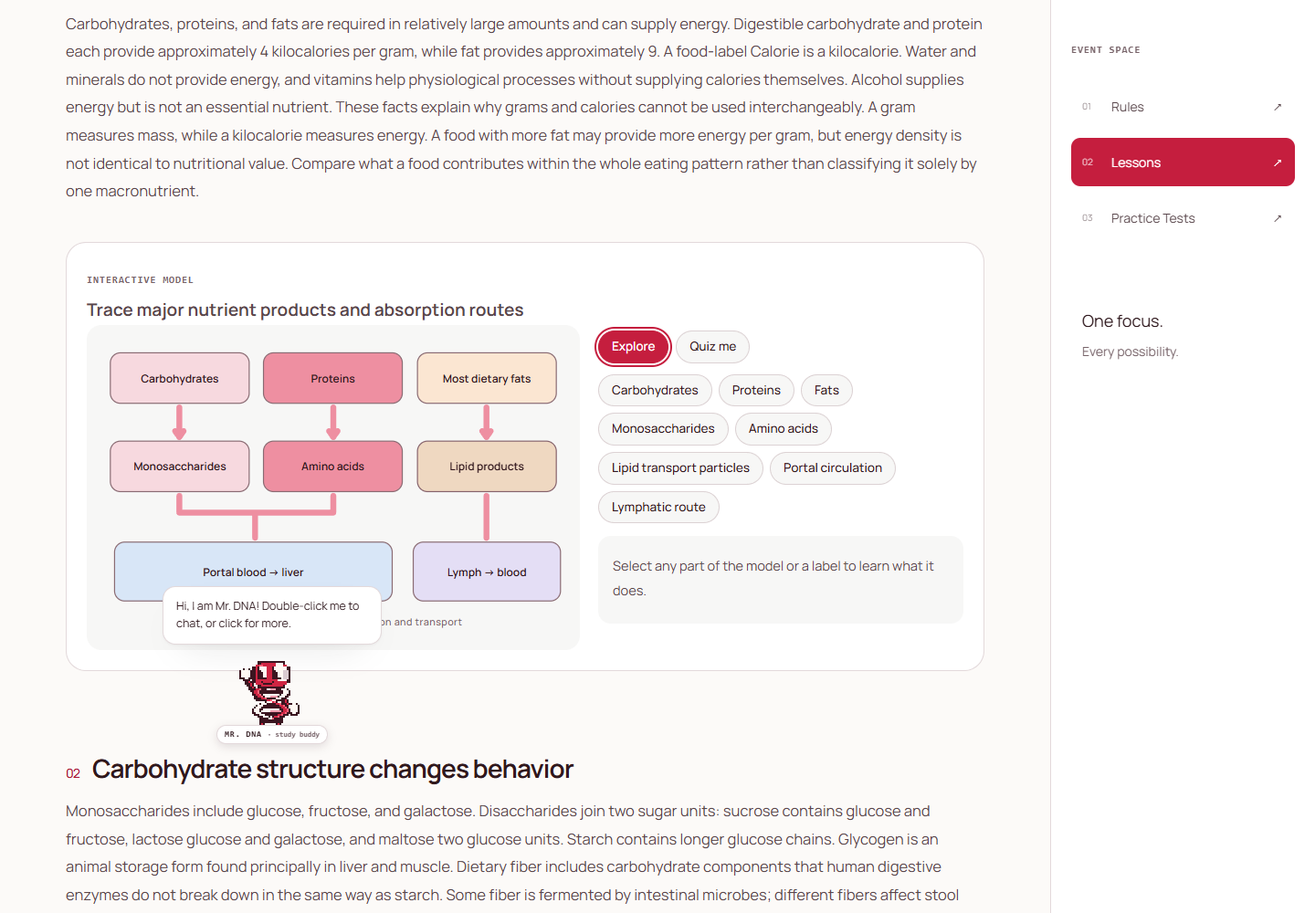
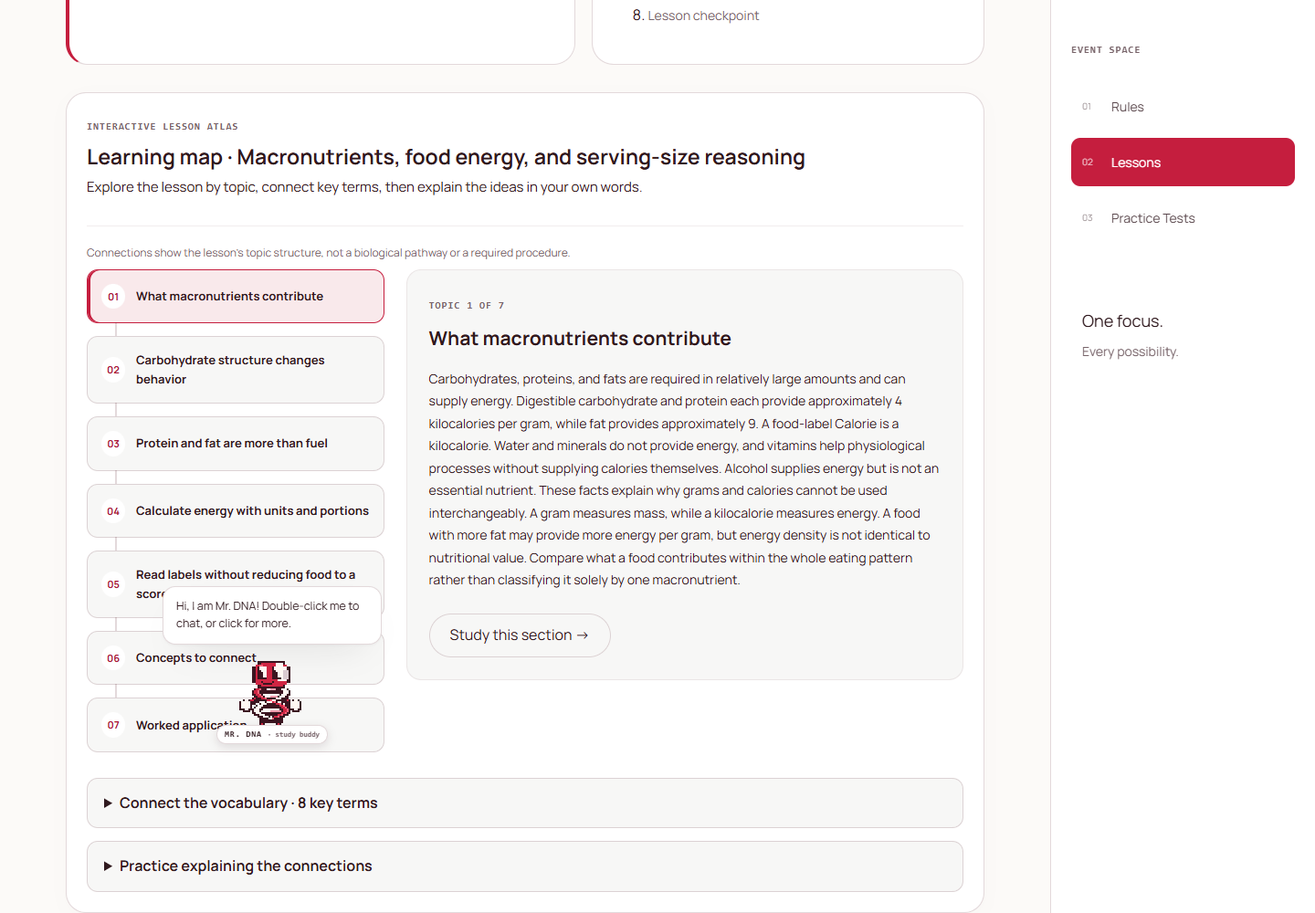
Improved models and diagrams

diff --git a/dist/visual-studio.js b/dist/visual-studio.js
@@ -1,0 +1,85 @@
+// Shared tools for the existing teaching models. No clinical calculations are changed.
+const escape = value => String(value ?? '').replace(/[&<>"']/g, c => ({'&':'&amp;','<':'&lt;','>':'&gt;','"':'&quot;',"'":'&#39;'}[c]));
+const formatted = value => escape(value).replace(/\*\*(.+?)\*\*/g,'<strong>$1</strong>').replace(/\*(.+?)\*/g,'<em>$1</em>');
+
+export function conceptMap(lesson) {
+  const sections = lesson.sections || [];
+  return {kind:'conceptmap', title:`Learning map · ${lesson.title}`, prompt:'Explore the lesson by topic, connect key terms, then explain the ideas in your own words.',
+    nodes:sections.map((section, index) => ({title:section.title, index,
+      details:section.blocks.flatMap(b => typeof b === 'string' ? [b] : b.t === 'callout' ? [b.text] : b.t === 'list' ? b.items : []).filter(Boolean).slice(0, 4)})),
+    terms:lesson.terms || [], objectives:lesson.objectives || []};
+}
+
+export const CONCEPT_MAP = {
+  label:'Interactive lesson atlas',
+  render(w) {
+    return `<div class="atlas"><p class="lw-help">Connections show the lesson’s topic structure, not a biological pathway or a required procedure.</p><div class="atlas-layout"><nav class="atlas-nodes" aria-label="Lesson topics">${w.nodes.map((n,i)=>`<button type="button" data-atlas-node="${i}" aria-pressed="${i===0}"><span>${String(i+1).padStart(2,'0')}</span><strong>${escape(n.title)}</strong></button>`).join('')}</nav><div class="atlas-detail" aria-live="polite"></div></div><details class="atlas-terms"><summary>Connect the vocabulary · ${w.terms.length} key terms</summary><dl>${w.terms.map(([term,definition])=>`<div><dt>${escape(term)}</dt><dd>${escape(definition)}</dd></div>`).join('')}</dl></details><details><summary>Practice explaining the connections</summary><ul>${w.objectives.map(o=>`<li>${escape(o)}</li>`).join('')}</ul><p>Choose two topics above. Explain how one helps you understand the other, using a key term and an example from the lesson.</p></details></div>`;
+  },
+  mount(node,w) {
+    const detail=node.querySelector('.atlas-detail');
+    const show=i=>{
+      const n=w.nodes[i]; if(!n)return;
+      node.querySelectorAll('[data-atlas-node]').forEach(b=>b.setAttribute('aria-pressed',String(Number(b.dataset.atlasNode)===i)));
+      detail.innerHTML=`<span class="eyebrow">Topic ${i+1} of ${w.nodes.length}</span><h5>${escape(n.title)}</h5>${n.details.map(p=>`<p>${formatted(p)}</p>`).join('') || '<p>Open this section to work through its activities and examples.</p>'}<button type="button" class="button secondary" data-atlas-open="${n.index}">Study this section →</button>`;
+      if(!matchMedia('(prefers-reduced-motion: reduce)').matches) detail.animate([{opacity:.35,transform:'translateY(6px)'},{opacity:1,transform:'translateY(0)'}],{duration:220});
+    };
+    node.addEventListener('click',event=>{
+      const choice=event.target.closest('[data-atlas-node]');if(choice)show(Number(choice.dataset.atlasNode));
+      const jump=event.target.closest('[data-atlas-open]');if(jump){const section=node.closest('.course-lesson,main')?.querySelector(`[data-section="${jump.dataset.atlasOpen}"]`);if(section){section.scrollIntoView({behavior:matchMedia('(prefers-reduced-motion: reduce)').matches?'auto':'smooth',block:'start'});section.tabIndex=-1;section.focus({preventScroll:true});}}
+    });
+    show(0);
+  }
+};
+
+export function mountVisualStudio(node,w) {
+  // Inline SVG definitions must be unique when several diagrams share a lesson.
+  const ids=new Map();
+  node.querySelectorAll('svg [id]').forEach(el=>{const old=el.id;const next=`${node.dataset.wid}-${old}`;ids.set(old,next);el.id=next;});
+  node.querySelectorAll('svg *').forEach(el=>{for(const attribute of [...el.attributes]){let value=attribute.value;for(const [old,next] of ids){value=value.replaceAll(`url(#${old})`,`url(#${next})`);if((attribute.name==='href'||attribute.name==='xlink:href')&&value===`#${old}`)value=`#${next}`;}if(value!==attribute.value)el.setAttribute(attribute.name,value);}});
+
+  node.querySelectorAll('.lw-figure').forEach(figure=>{
+    const svg=figure.querySelector('svg');if(!svg)return;
+    const viewport=document.createElement('div');viewport.className='visual-viewport';viewport.tabIndex=0;viewport.setAttribute('role','region');viewport.setAttribute('aria-label','Model viewport; scroll to inspect when zoomed');svg.before(viewport);viewport.append(svg);
+    const toolbar=document.createElement('div');toolbar.className='visual-tools';toolbar.innerHTML='<span>Inspect model</span><button type="button" class="chip" data-zoom-out aria-label="Zoom out">−</button><output aria-live="polite">100%</output><button type="button" class="chip" data-zoom-in aria-label="Zoom in">+</button><button type="button" class="chip" data-zoom-fit>Fit</button>';
+    figure.append(toolbar);let zoom=1;
+    const update=()=>{svg.style.width=`${zoom*100}%`;svg.style.maxWidth='none';toolbar.querySelector('output').textContent=`${Math.round(zoom*100)}%`;toolbar.querySelector('[data-zoom-out]').disabled=zoom===1;toolbar.querySelector('[data-zoom-in]').disabled=zoom===2.5;};
+    toolbar.addEventListener('click',ev=>{if(ev.target.closest('[data-zoom-in]'))zoom=Math.min(2.5,zoom+.25);if(ev.target.closest('[data-zoom-out]'))zoom=Math.max(1,zoom-.25);if(ev.target.closest('[data-zoom-fit]'))zoom=1;update();});update();
+  });
+
+  if(w.kind==='label' && w.parts?.length){
+    const panel=document.createElement('div');panel.className='model-tour';
+    panel.innerHTML=`<div class="visual-tools"><button type="button" class="chip" data-tour-prev aria-label="Previous model part">←</button><button type="button" class="chip" data-tour-play aria-pressed="false">Play guided tour</button><button type="button" class="chip" data-tour-next aria-label="Next model part">→</button><label>Reading pace <select data-tour-speed><option value="6000">6 seconds</option><option value="10000" selected>10 seconds</option><option value="15000">15 seconds</option></select></label></div><p class="lw-help" data-tour-status aria-live="polite">Explore ${w.parts.length} parts at your own pace. The tour follows the label order.</p><progress max="${w.parts.length}" value="0" aria-label="Parts explored"></progress><details><summary>Model reference · all ${w.parts.length} parts</summary><dl>${w.parts.map(([,name,detail])=>`<div><dt>${escape(name)}</dt><dd>${escape(detail)}</dd></div>`).join('')}</dl></details>`;
+    node.append(panel);let index=-1,timer=null,playing=false;const visited=new Set();
+    const play=panel.querySelector('[data-tour-play]');
+    const stop=()=>{clearTimeout(timer);timer=null;playing=false;play.textContent='Play guided tour';play.setAttribute('aria-pressed','false');};
+    const schedule=()=>{clearTimeout(timer);timer=setTimeout(()=>{if(!node.isConnected||document.hidden){stop();return;}advance(1);if(index===w.parts.length-1)stop();else schedule();},Number(panel.querySelector('select').value));};
+    const advance=delta=>{node.querySelector('[data-mode="explore"]')?.click();index=(index+delta+w.parts.length)%w.parts.length;node.querySelectorAll('[data-pick]')[index]?.click();};
+    node.addEventListener('click',ev=>{
+      const part=ev.target.closest('[data-pick],[data-part]');
+      if(part){const id=part.dataset.pick||part.dataset.part;const found=w.parts.findIndex(p=>p[0]===id);if(found>=0){index=found;visited.add(id);panel.querySelector('progress').value=visited.size;panel.querySelector('[data-tour-status]').textContent=`Part ${index+1} of ${w.parts.length} · ${w.parts[index][1]} · ${visited.size} explored`;node.querySelectorAll('[data-pick]').forEach(b=>b.setAttribute('aria-pressed',String(b.dataset.pick===id)));}}
+      if(ev.target.closest('[data-mode="quiz"]'))stop();
+    });
+    panel.addEventListener('click',ev=>{if(ev.target.closest('[data-tour-play]')){if(playing)stop();else{playing=true;play.textContent='Pause tour';play.setAttribute('aria-pressed','true');if(index<0||index===w.parts.length-1)index=-1;advance(1);schedule();}}if(ev.target.closest('[data-tour-next]')){stop();advance(1);}if(ev.target.closest('[data-tour-prev]')){stop();advance(index<0?1:-1);}});
+    panel.querySelector('select').addEventListener('change',()=>{if(playing)schedule();});
+  }
+
+  const practiceKinds=new Set(['label','conceptmap','match','sort','order','flip','case','wordbuild','stepper']);
+  if((w.kind==='label'||w.kind==='stepper'||!practiceKinds.has(w.kind))&&w.studyNotes?.paragraphs?.length){
+    const context=document.createElement('details');context.className='model-context';context.innerHTML=`<summary>Understand the model in context</summary><h5>${escape(w.studyNotes.title)}</h5>${w.studyNotes.paragraphs.map(p=>`<p>${formatted(p)}</p>`).join('')}<p class="lw-help">Use the lesson’s sources and worked examples to check your explanation.</p>`;node.append(context);
+  }
+  if(!practiceKinds.has(w.kind))mountNotebook(node);
+}
+
+function mountNotebook(node){
+  const notebook=document.createElement('details');notebook.className='lab-notebook';notebook.innerHTML='<summary>Experiment notebook · compare your trials</summary><p class="lw-help">Predict a result, adjust one control, and record what changed. Notes last while this lesson stays open.</p><label>Your prediction<textarea rows="2" maxlength="1500" data-prediction placeholder="If I change… I expect… because…"></textarea></label><label>What did you observe?<textarea rows="2" maxlength="1500" data-observation placeholder="Record the result and explain the difference."></textarea></label><div class="visual-tools"><button type="button" class="chip" data-record-trial>Record trial</button><button type="button" class="chip" data-clear-trials>Clear trials</button></div><p data-trial-status role="status"></p><ol class="trial-list"></ol>';
+  node.append(notebook);let trials=0;
+  notebook.addEventListener('click',ev=>{
+    if(ev.target.closest('[data-clear-trials]')){notebook.querySelector('ol').replaceChildren();trials=0;notebook.querySelector('[data-trial-status]').textContent='Trials cleared.';return;}
+    if(!ev.target.closest('[data-record-trial]'))return;
+    const status=notebook.querySelector('[data-trial-status]');if(trials>=8){status.textContent='Eight trials recorded. Clear trials to start a new experiment.';return;}
+    const prediction=notebook.querySelector('[data-prediction]').value.trim(),observation=notebook.querySelector('[data-observation]').value.trim();if(!observation){status.textContent='Add an observation before recording a trial.';return;}
+    const controls=[...node.querySelectorAll('input,select')].filter(el=>!notebook.contains(el)&&el.type!=='hidden'&&(!['radio','checkbox'].includes(el.type)||el.checked)).map((el,i)=>{const label=el.getAttribute('aria-label')||el.labels?.[0]?.textContent.trim()||el.dataset.input||el.name||`Control ${i+1}`;return `${label.replace(/\s+/g,' ').slice(0,90)}: ${el.tagName==='SELECT'?el.selectedOptions[0]?.textContent:el.value}`;});
+    const readouts=[...new Set([...node.querySelectorAll('output,.lab-answer,[data-rate-stats],.lab-result,.lab-results,[data-result]')].filter(el=>!notebook.contains(el)&&el.checkVisibility()).map(el=>el.innerText.trim()).filter(Boolean))].join(' · ').slice(0,1000);
+    const item=document.createElement('li');item.innerHTML=`<strong>Trial ${++trials}</strong>${controls.length?`<p class="trial-controls">${controls.map(escape).join(' · ')}</p>`:''}${readouts?`<p><b>Model readout:</b> ${escape(readouts)}</p>`:''}<p><b>Prediction:</b> ${escape(prediction||'Not recorded')}</p><p><b>Observation:</b> ${escape(observation)}</p>`;notebook.querySelector('ol').append(item);status.textContent=`Trial ${trials} recorded. Change one input to compare another trial.`;
+  });
+}

diff --git a/dist/visual-studio.css b/dist/visual-studio.css
@@ -1,0 +1,47 @@
+/* Shared presentation for every event's generated diagrams and laboratories. */
+.lw{min-width:0;overflow-wrap:anywhere;box-shadow:0 5px 24px #00000004}
+.lw-head{padding-bottom:16px;margin-bottom:18px;border-bottom:1px solid var(--line)}
+.lw-head h4{font-size:clamp(18px,2vw,23px);line-height:1.45;text-wrap:balance}
+.lw p,.lw li{line-height:1.75}.lw button,.lw select{font:inherit}.lw button{touch-action:manipulation}
+.lw :is(button,input,select,textarea){max-width:100%}.lw :is(.chip,.visual-tools button){min-height:42px}
+.lw-label{grid-template-columns:minmax(0,1.4fr) minmax(240px,1fr);gap:24px}
+.lw-label>*{min-width:0}.lw-figure{border:1px solid var(--line);padding:16px}
+.visual-viewport{overflow:auto;max-height:620px;overscroll-behavior:contain;border-radius:10px;scrollbar-gutter:stable}
+.visual-viewport svg{min-height:220px;transform-origin:top left}
+.visual-tools{display:flex;align-items:center;flex-wrap:wrap;gap:8px;margin-top:16px}
+.visual-tools>span{font-size:12px;color:var(--muted);margin-right:auto}
+.visual-tools output{min-width:3.5em;text-align:center;font-variant-numeric:tabular-nums;font-size:13px}
+.visual-tools label{display:flex;align-items:center;gap:8px;flex-wrap:wrap;font-size:12px;color:var(--muted)}
+.visual-tools select{padding:9px;border:1px solid var(--line-strong);border-radius:8px;background:var(--surface);color:var(--ink)}
+.lw button:disabled{opacity:.45;cursor:not-allowed}
+.model-tour{margin-top:22px;padding-top:4px;border-top:1px solid var(--line)}
+.model-tour progress{width:100%;height:6px;accent-color:var(--red);display:block;margin:12px 0 20px}
+.lw details{border:1px solid var(--line-strong);border-radius:12px;padding:14px 18px;margin-top:14px;background:var(--surface-2)}
+.lw summary{cursor:pointer;font-weight:650;line-height:1.6}.lw summary:focus-visible{outline:3px solid var(--red);outline-offset:4px}
+.lw details[open]>summary{margin-bottom:16px}.lw dl{margin:0}.lw dl>div{padding:12px 0;border-bottom:1px solid var(--line)}
+.lw dl>div:last-child{border:0}.lw dt{font-weight:700}.lw dd{margin:5px 0 0;line-height:1.75;font-size:14px}
+.lw-svg [data-part]{transition:opacity .25s,filter .25s;cursor:pointer}
+.lw-svg:has(.hl) [data-part]:not(.hl){opacity:.5}.lw-svg [data-part].hl{filter:drop-shadow(0 2px 5px #a8223c44)}
+.lw-detail{border-left:3px solid var(--red);min-height:145px}.lw-detail h5{font-size:18px}
+.lw .lab-controls{align-items:start}.lw input[type=range]{min-height:32px}.lw svg{max-width:100%}
+.lw:not(.lwk-label):not(.lwk-stepper) svg rect{transition:width .3s ease,height .3s ease,y .3s ease,fill .3s ease}
+.lw:not(.lwk-label):not(.lwk-stepper) svg circle{transition:cx .3s ease,cy .3s ease,r .3s ease,fill .3s ease}
+.lab-notebook label{display:grid;gap:8px;margin:12px 0;font-size:14px;font-weight:600}
+.lab-notebook textarea{width:100%;box-sizing:border-box;resize:vertical;padding:12px;border:1px solid var(--line-strong);border-radius:10px;font:400 14px/1.6 var(--font-body);background:var(--surface);color:var(--ink)}
+.trial-list{display:grid;grid-template-columns:repeat(2,minmax(0,1fr));gap:12px;padding:0;list-style:none}
+.trial-list li{padding:16px;background:var(--surface);border:1px solid var(--line);border-radius:12px;min-width:0}
+.trial-list p{font-size:13px;margin:8px 0}.trial-controls{color:var(--muted)}
+.atlas-layout{display:grid;grid-template-columns:minmax(190px,.8fr) minmax(0,1.5fr);gap:24px;align-items:start}
+.atlas-nodes{display:grid;gap:0;position:relative}
+.atlas-nodes button{position:relative;text-align:left;display:flex;gap:12px;align-items:center;padding:15px;margin-bottom:14px;width:100%;border:1px solid var(--line-strong);background:var(--surface-2);color:var(--ink);border-radius:12px;cursor:pointer;font-size:13px;line-height:1.6;transition:background .2s,border-color .2s}
+.atlas-nodes button:not(:last-child):after{content:'';height:15px;width:2px;background:var(--line-strong);position:absolute;left:30px;top:100%}
+.atlas-nodes button span{flex-shrink:0;white-space:nowrap;min-width:26px;text-align:center;font-size:11px;font-weight:700;border-radius:50%;background:var(--surface);padding:5px;color:var(--red-ink)}
+.atlas-nodes button[aria-pressed=true]{border-color:var(--red);background:var(--red-soft);box-shadow:inset 3px 0 var(--red)}
+.atlas-detail{padding:24px;background:var(--surface-2);border:1px solid var(--line);border-radius:16px;min-width:0}
+.atlas-detail h5{font-size:21px;line-height:1.5;margin:10px 0 16px}.atlas-detail p{font-size:14px;margin:12px 0}.atlas-detail .button{margin-top:12px}
+@media(min-width:1000px){.lw-figure{position:sticky;top:20px}}
+@media(max-width:700px){.lw-label,.atlas-layout{grid-template-columns:1fr}.lw-figure{padding:10px}.visual-viewport{max-height:450px}.trial-list{grid-template-columns:1fr}.atlas-detail{padding:18px}.atlas-nodes{grid-template-columns:repeat(2,minmax(0,1fr));gap:8px}.atlas-nodes button{margin:0;padding:12px;align-items:start}.atlas-nodes button:after{display:none}.lw details{padding:12px}.visual-tools{gap:6px}.visual-tools label{width:100%;margin-top:6px}}
+@media(prefers-reduced-motion:no-preference){.lw-detail h5,.lw-detail p,.trial-list li{animation:visual-reveal .28s ease-out}.lw-svg [data-part].hl{animation:visual-highlight .4s ease-out}}
+@keyframes visual-reveal{from{opacity:.4;transform:translateY(5px)}to{opacity:1;transform:translateY(0)}}
+@keyframes visual-highlight{from{opacity:.55}to{opacity:1}}
+@media(prefers-reduced-motion:reduce){.lw *,.lw *:before,.lw *:after{animation:none!important;transition:none!important;scroll-behavior:auto!important}}

diff --git a/dist/lesson-widgets.js b/dist/lesson-widgets.js
@@ -5,6 +5,7 @@ import {SIMS} from './lesson-sims.js';
 import {SUBJECT_LABS} from './lesson-labs.js';
 import {SCIENCE_LABS} from './lesson-science-labs.js';
 import {SKILL_LABS} from './lesson-skill-labs.js';
+import {CONCEPT_MAP, mountVisualStudio} from './visual-studio.js';
 import {dragify, snapshot, glide, under} from './lesson-drag.js';
 
 export const e = v => String(v ?? '').replace(/[&<>"']/g, c => ({'&':'&amp;','<':'&lt;','>':'&gt;','"':'&quot;',"'":'&#39;'}[c]));
@@ -20,7 +21,7 @@ const label = {
     const parts = new Map(w.parts.map(([id, name, detail]) => [id, {name, detail}]));
     const detail = node.querySelector('.lw-detail');
     let quiz = null, advancing = false, quizTimer;
-    const light = id => { node.querySelectorAll('[data-part]').forEach(p => p.classList.toggle('hl', p.dataset.part === id)); node.querySelectorAll('[data-pick]').forEach(b => b.classList.toggle('on', b.dataset.pick === id)); };
+    const light = id => { node.querySelectorAll('[data-part]').forEach(p => p.classList.toggle('hl', p.dataset.part === id)); node.querySelectorAll('[data-pick]').forEach(b => { b.classList.toggle('on', b.dataset.pick === id); b.setAttribute('aria-pressed',String(b.dataset.pick === id)); }); };
     const show = id => { const p = parts.get(id); if (!p) return; light(id); detail.innerHTML = `<h5>${e(p.name)}</h5><p>${inline(p.detail)}</p>`; };
     const ask = () => {
       if (!quiz.order.length) { detail.innerHTML = `<h5>Quiz complete</h5><p>You found ${quiz.score} of ${parts.size} on the first try.</p><button type="button" class="button secondary" data-restart>Try again</button>`; light(null); return; }
@@ -37,7 +38,7 @@ const label = {
     node.addEventListener('click', ev => {
       const mode = ev.target.closest('[data-mode]');
       if (mode) { clearTimeout(quizTimer); advancing=false;
-        node.querySelectorAll('[data-mode]').forEach(b => b.classList.toggle('on', b === mode));
+        node.querySelectorAll('[data-mode]').forEach(b => { b.classList.toggle('on', b === mode); b.setAttribute('aria-pressed',String(b===mode)); });
         node.querySelector('.lw-parts').hidden = mode.dataset.mode === 'quiz';
         quiz = mode.dataset.mode === 'quiz' ? {order: shuffle([...parts.keys()]), score: 0} : null;
         light(null);
@@ -48,7 +49,8 @@ const label = {
       const pick = ev.target.closest('[data-pick]') || ev.target.closest('[data-part]');
       if (pick) choose(pick.dataset.pick || pick.dataset.part);
     });
-    node.querySelectorAll('svg [data-part]').forEach(p => { p.setAttribute('tabindex', '0'); p.setAttribute('role', 'button'); p.setAttribute('aria-label', parts.get(p.dataset.part)?.name || p.dataset.part); p.addEventListener('keydown', ev => { if (ev.key === 'Enter' || ev.key === ' ') { ev.preventDefault(); choose(p.dataset.part); } }); });
+    node.querySelectorAll('[data-mode]').forEach(b=>b.setAttribute('aria-pressed',String(b.dataset.mode==='explore')));
+    node.querySelectorAll('svg [data-part]').forEach(p => { p.setAttribute('tabindex', '0'); p.setAttribute('role', 'button'); p.setAttribute('aria-label', parts.get(p.dataset.part)?.name || p.dataset.part); p.addEventListener('keydown', ev => { if (ev.key === 'Enter' || ev.key === ' ') { ev.preventDefault(); p.dispatchEvent(new MouseEvent('click',{bubbles:true})); } }); });
   },
 };
 
@@ -286,7 +288,7 @@ const wordbuild = {
   },
 };
 
-const W = {label, sort, match, order, flip, stepper, case: scenario, wordbuild, ...SIMS, ...SUBJECT_LABS, ...SCIENCE_LABS, ...SKILL_LABS};
+const W = {label, sort, match, order, flip, stepper, case: scenario, wordbuild, conceptmap: CONCEPT_MAP, ...SIMS, ...SUBJECT_LABS, ...SCIENCE_LABS, ...SKILL_LABS};
 
 let seq = 0;
 const CONFIG = new Map();
@@ -305,7 +307,7 @@ export function mountWidgets(root) {
     if (!w || node.dataset.ready) return;
     node.dataset.ready = '1';
     CONFIG.delete(node.dataset.wid); // Event listeners now own the config; release the global reference.
-    try { W[w.kind].mount(node, w); } catch (error) { console.error('Lesson activity failed', w.kind, error); node.insertAdjacentHTML('beforeend', '<p class="subtle">This activity could not start. Reload the page to try again.</p>'); }
+    try { W[w.kind].mount(node, w); mountVisualStudio(node, w); } catch (error) { console.error('Lesson activity failed', w.kind, error); node.insertAdjacentHTML('beforeend', '<p class="subtle">This activity could not start. Reload the page to try again.</p>'); }
   });
 }
 export const widgetKinds = () => Object.keys(W);

diff --git a/dist/rich-lesson.js b/dist/rich-lesson.js
@@ -2,10 +2,11 @@
 // inside the section they teach, plus quick checks and worked examples.
 import {renderWidget, mountWidgets, e, inline} from './lesson-widgets.js';
 import {FIGURES} from './rich/figures.js';
+import {conceptMap} from './visual-studio.js';
 
 const CALLOUT = {exam: 'On the test', safety: 'Safety first', clinical: 'In practice', remember: 'Remember', mistake: 'Common mistake', history: 'History'};
 
-function block(b) {
+function block(b, section) {
   if (typeof b === 'string') return `<p>${inline(b)}</p>`;
   switch (b.t) {
     case 'list': { const tag = b.ordered ? 'ol' : 'ul'; return `${b.title ? `<p class="lesson-list-title">${inline(b.title)}</p>` : ''}<${tag} class="lesson-list">${b.items.map(i => `<li>${inline(i)}</li>`).join('')}</${tag}>`; }
@@ -14,7 +15,7 @@ function block(b) {
     case 'check': return `<form class="quick-check" data-quick="${b.answer}"><span class="eyebrow">Quick check</span><p class="qc-q">${inline(b.q)}</p>${b.options.map((o, i) => `<label class="mcq-option"><input type="radio" name="qc" value="${i}"><span>${inline(o)}</span></label>`).join('')}<div class="qc-foot"><button type="submit" class="button secondary">Check</button><p class="qc-why" aria-live="polite" data-why="${e(b.why)}"></p></div></form>`;
     case 'example': return `<section class="worked" data-worked><span class="eyebrow">Worked example</span><h4>${inline(b.title || 'Try it')}</h4><p>${inline(b.prompt)}</p><ol class="worked-steps">${b.steps.map(s => `<li hidden>${inline(s)}</li>`).join('')}</ol>${b.answer ? `<p class="worked-answer" hidden><strong>Answer:</strong> ${inline(b.answer)}</p>` : ''}<button type="button" class="button secondary" data-next-step>Show the first step</button></section>`;
     case 'fig': { const f = FIGURES[b.file]; if (!f) return ''; return `<figure class="lesson-media lesson-fig"><button type="button" class="fig-zoom" data-zoom aria-label="Enlarge figure: ${e(b.alt)}"><img src="${e(f.url)}" alt="${e(b.alt)}" loading="lazy" referrerpolicy="no-referrer"${f.width ? ` style="aspect-ratio:${f.width}/${f.height}"` : ''}></button><figcaption>${inline(b.caption)}<span class="credit">Image: ${e(f.credit)} · <a href="${e(f.source)}" target="_blank" rel="noreferrer">Source ↗</a> · <a href="${e(f.licenseUrl || f.source)}" target="_blank" rel="noreferrer">${e(f.license)}</a></span></figcaption></figure>`; }
-    case 'w': return renderWidget(b);
+    case 'w': return renderWidget({...b, studyNotes: section ? {title:section.title, paragraphs:section.blocks.filter(x=>typeof x==='string').slice(0,3)} : null});
     default: return '';
   }
 }
@@ -24,7 +25,8 @@ export function richLessonBody(lesson) {
   const toc = lesson.sections.map((s, i) => `<li><button type="button" class="text-button" data-jump="${i}">${e(s.title)}</button></li>`).join('');
   return `${lesson.hook ? `<section class="lesson-hook"><span class="eyebrow">Start here</span><p>${inline(lesson.hook)}</p></section>` : ''}
   <div class="lesson-intro-grid"><section class="course-card objectives"><h3>What you’ll be able to do</h3><ul>${lesson.objectives.map(o => `<li>${inline(o)}</li>`).join('')}</ul></section><nav class="course-card lesson-toc" aria-label="In this lesson"><h3>In this lesson</h3><ol>${toc}<li><button type="button" class="text-button" data-jump="checkpoint">Lesson checkpoint</button></li></ol></nav></div>
-  <div class="lesson-prose rich">${lesson.sections.map((s, i) => `<section class="lesson-section" data-section="${i}"><h3><span class="section-num">${String(i + 1).padStart(2, '0')}</span>${e(s.title)}</h3>${s.blocks.map(block).join('')}</section>`).join('')}</div>
+  ${renderWidget(conceptMap(lesson))}
+  <div class="lesson-prose rich">${lesson.sections.map((s, i) => `<section class="lesson-section" data-section="${i}"><h3><span class="section-num">${String(i + 1).padStart(2, '0')}</span>${e(s.title)}</h3>${s.blocks.map(b=>block(b,s)).join('')}</section>`).join('')}</div>
   ${lesson.takeaways.length ? `<section class="course-card takeaways"><span class="eyebrow">Key takeaways</span><ul>${lesson.takeaways.map(t => `<li>${inline(t)}</li>`).join('')}</ul></section>` : ''}
   ${lesson.terms.length ? `<section class="course-card terms"><span class="eyebrow">Key terms</span><dl>${lesson.terms.map(([t, d]) => `<div><dt>${inline(t)}</dt><dd>${inline(d)}</dd></div>`).join('')}</dl></section>` : ''}`;
 }

diff --git a/tests/visual-studio.test.js b/tests/visual-studio.test.js
@@ -1,0 +1,20 @@
+import test from 'node:test';
+import assert from 'node:assert/strict';
+import {loadAllCourses,courseNames,courseLessons} from '../dist/courses.js';
+import {conceptMap,CONCEPT_MAP} from '../dist/visual-studio.js';
+
+test('every event gets lesson-specific maps without changing the authored content',async()=>{
+ await loadAllCourses({view:false});let count=0;
+ for(const name of courseNames())for(const lesson of courseLessons(name)){
+  const original=JSON.stringify(lesson);const map=conceptMap(lesson);
+  assert.equal(map.nodes.length,lesson.sections.length,name+' '+lesson.title);
+  assert.ok(map.nodes.length>0);assert.equal(map.terms,lesson.terms);
+  map.nodes.forEach((node,i)=>{assert.equal(node.index,i);assert.equal(node.title,lesson.sections[i].title);assert.ok(node.details.every(p=>typeof p==='string'));});
+  assert.equal(JSON.stringify(lesson),original);count++;
+ }
+ assert.equal(count,650);
+});
+test('concept labels and definitions are escaped before rendering',()=>{
+ const html=CONCEPT_MAP.render({nodes:[{title:'<img onerror=alert(1)>',details:[]}],terms:[['<script>','A & B']],objectives:['<unsafe>']});
+ assert.doesNotMatch(html,/<img|<script>|<unsafe>/);assert.match(html,/&lt;img/);assert.match(html,/A &amp; B/);
+});

diff --git a/dist/index.html b/dist/index.html
@@ -20,6 +20,7 @@
   <link rel="stylesheet" href="lesson-labs.css">
   <link rel="stylesheet" href="lesson-science-labs.css">
   <link rel="stylesheet" href="lesson-skill-labs.css">
+  <link rel="stylesheet" href="visual-studio.css">
   <!-- Migrate earlier brand storage before reading the current theme. -->
   <script>try{for(const prefix of ['kalus-','halus-']){for(const key of Object.keys(localStorage)){if(!key.startsWith(prefix))continue;const next='valus-'+key.slice(prefix.length);if(localStorage.getItem(next)===null)localStorage.setItem(next,localStorage.getItem(key));localStorage.removeItem(key);}}}catch{}try{document.documentElement.dataset.theme=localStorage.getItem('valus-theme')||(matchMedia('(prefers-color-scheme: dark)').matches?'dark':'light')}catch{document.documentElement.dataset.theme='light'}</script>
 </head>
